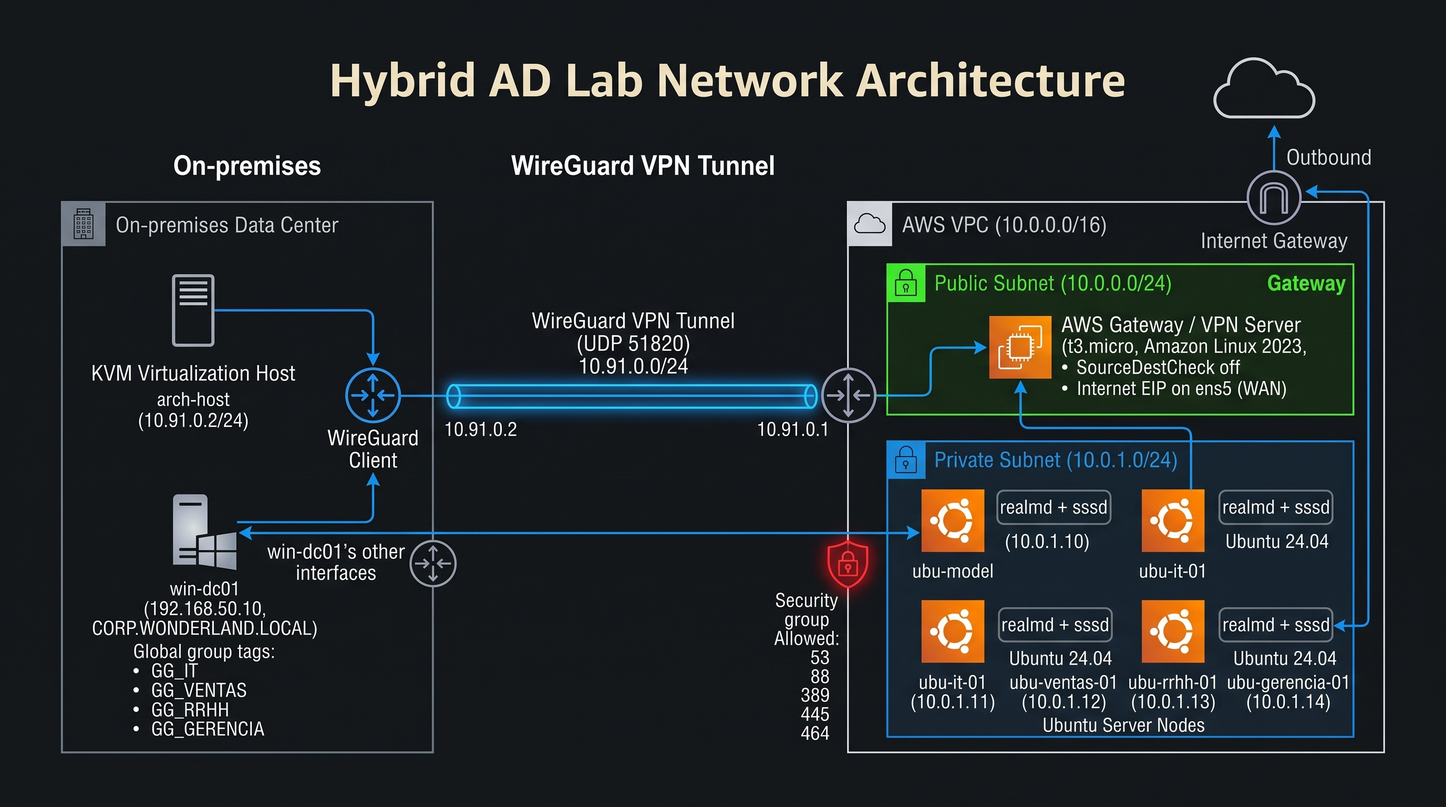
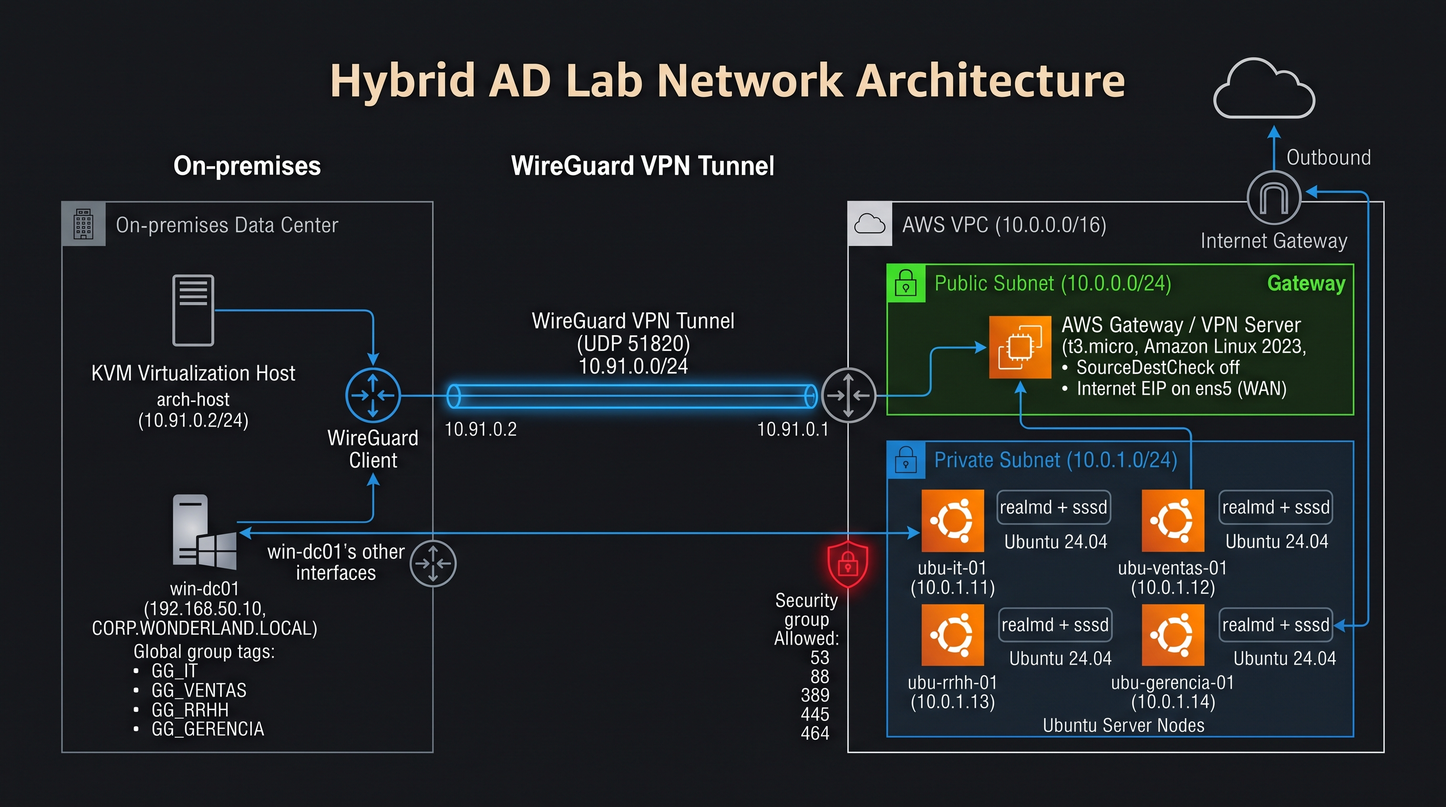
Actualiza diagrama: 4 clientes finales, sin ubu-model

diff --git a/Active-Directory-Hibrido/README.md b/Active-Directory-Hibrido/README.md
@@ -25,9 +25,7 @@ Simula una empresa pequeña con oficina on-premise y una sucursal en la nube:
 
 ## Arquitectura
 
-![Diagrama de arquitectura (plan original)](./01-diagrama-arquitectura.jpg)
-
-> El diagrama es el **plan original**. La versión final difiere en detalles: por ejemplo, el modelo `ubu-model` se reemplazó por cuatro clones lanzados desde Ubuntu 24.04 con *user data*, porque el sandbox de AWS no permite lanzar instancias desde AMIs propias.
+![Diagrama de arquitectura](./01-diagrama-arquitectura.jpg)
 
 ```
   ON-PREMISE (host KVM)                                AWS (VPC 10.0.0.0/16)
@@ -126,7 +124,7 @@ Active-Directory-Hibrido/
 |---|---|
 | [`ad-hybrid-lab-documento-v1.md`](./ad-hybrid-lab-documento-v1.md) | Bitácora completa: decisiones, comandos exactos, 30 errores con causa raíz, scripts, tickets N1 y pasos para reconstruir |
 | [`hybrid-ad-lab-network.yaml`](./hybrid-ad-lab-network.yaml) | Plantilla de CloudFormation: red, gateway WireGuard y, opcionalmente, los 4 clientes Ubuntu |
-| `01-diagrama-arquitectura.jpg` | Diagrama del plan original |
+| `01-diagrama-arquitectura.jpg` | Diagrama de arquitectura |
 
 ## Cómo replicarlo
 
